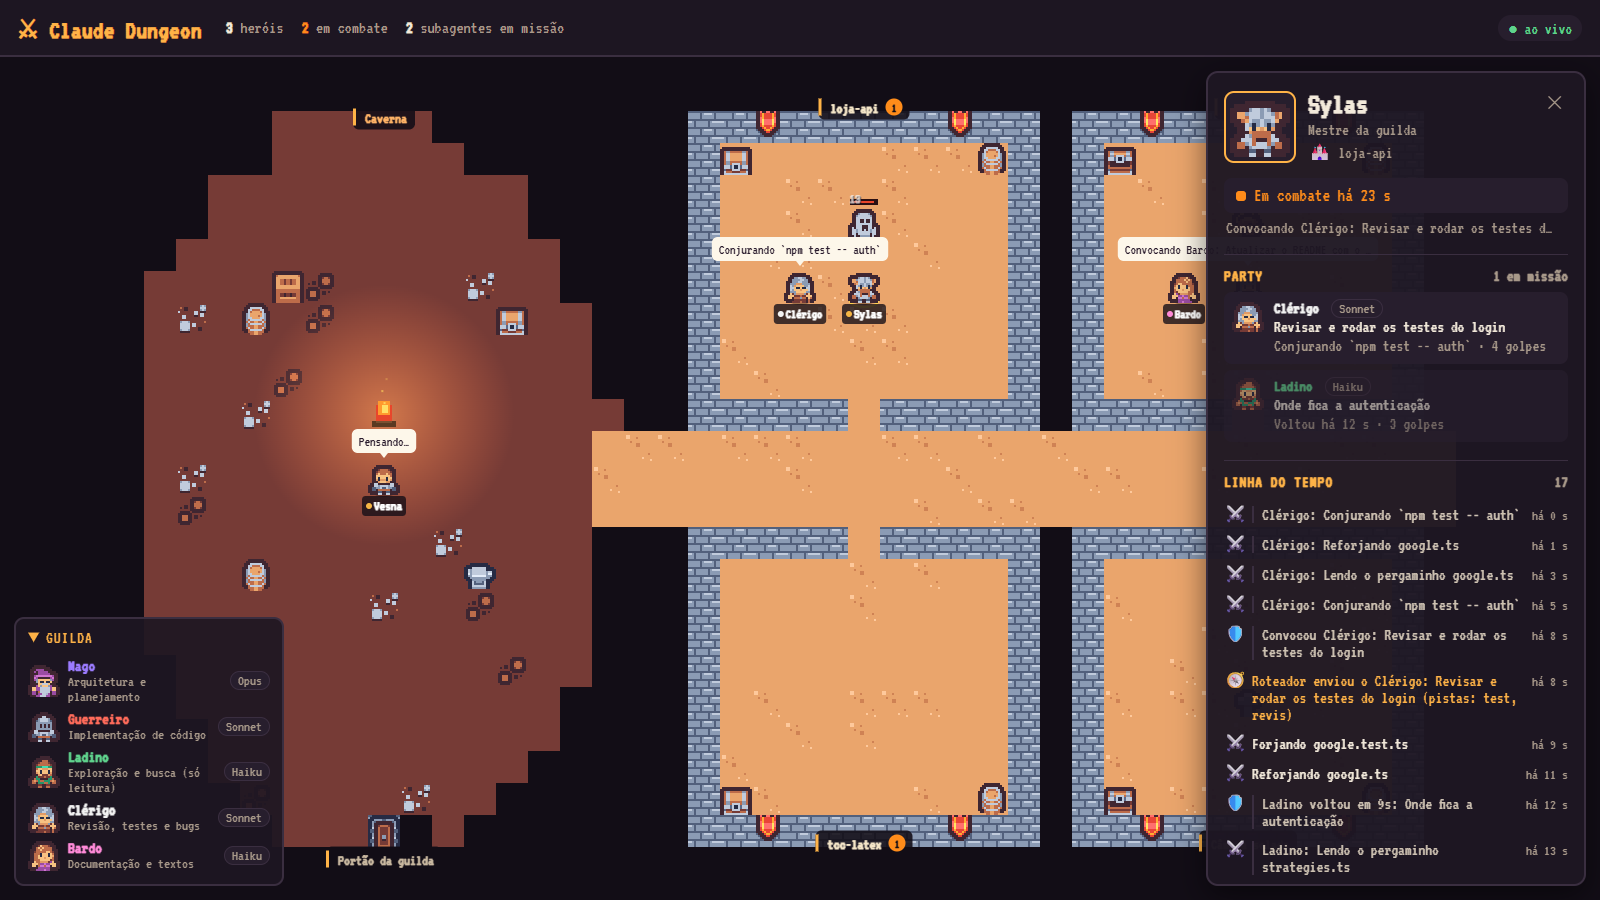
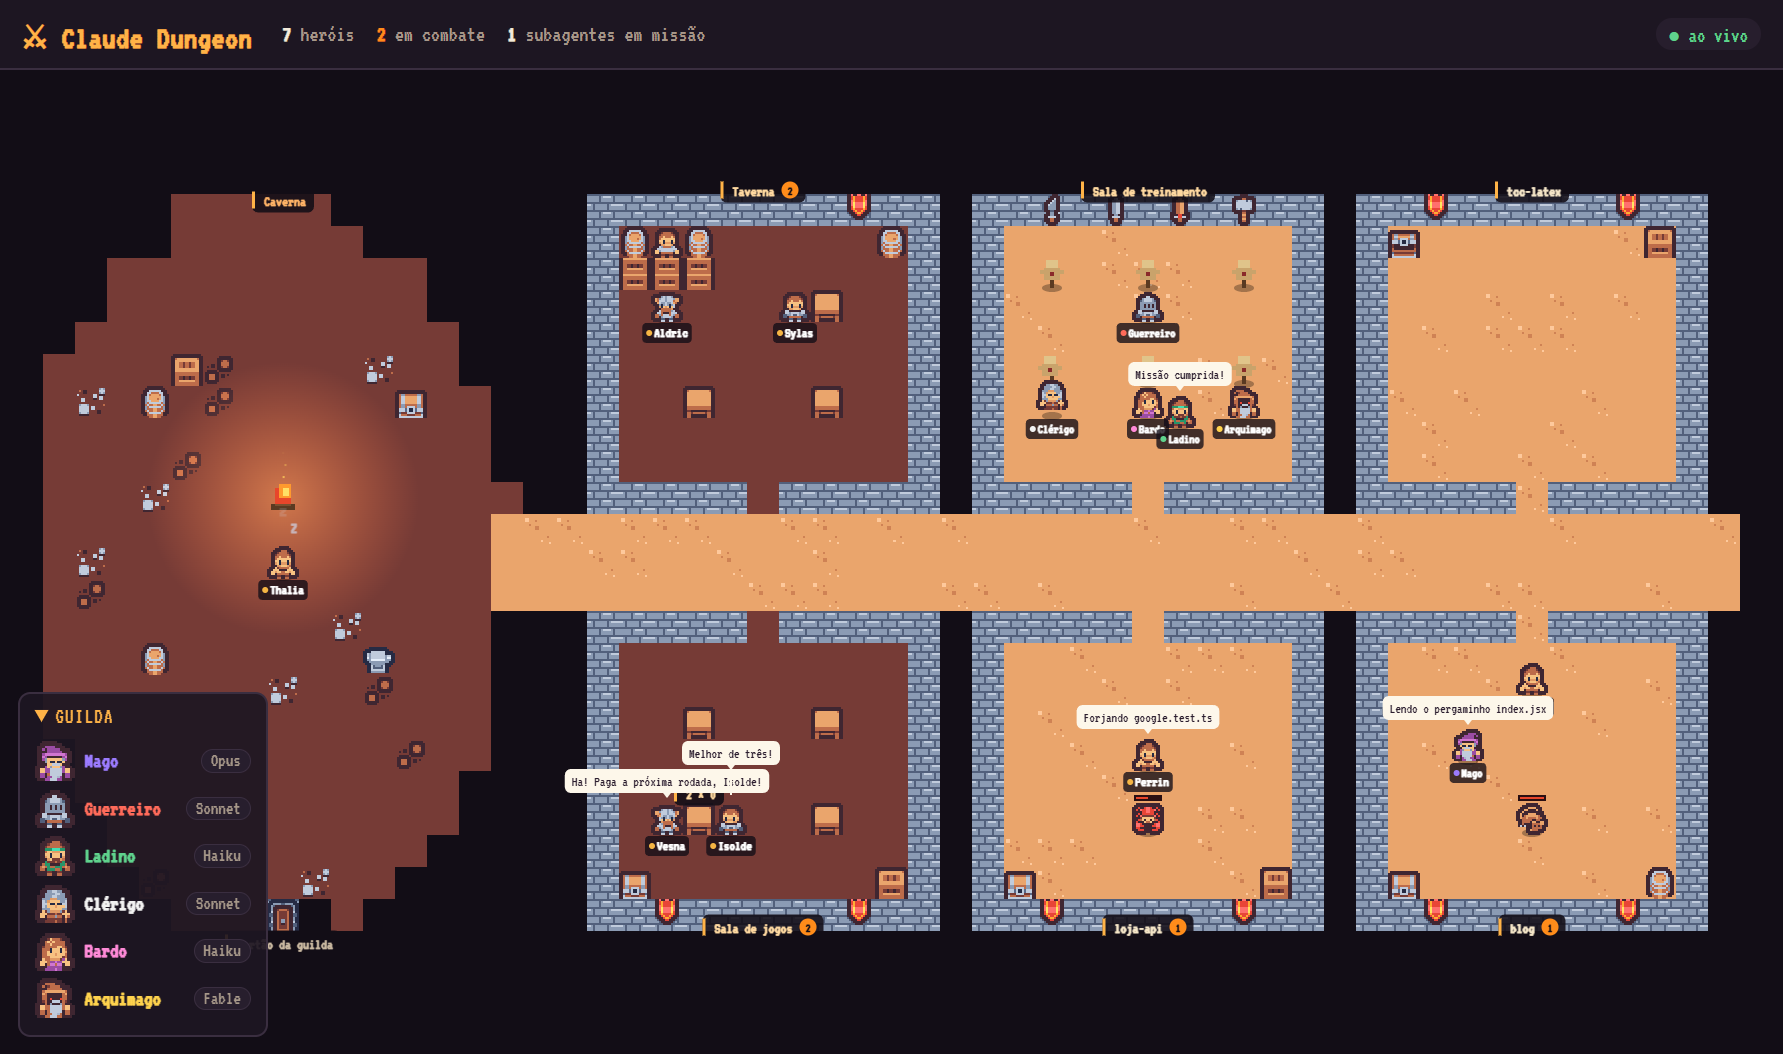
docs: document the guild rooms, the Arquimago and the desktop app

diff --git a/README.md b/README.md
@@ -2,12 +2,20 @@
 
 Veja suas sessões do [Claude Code](https://claude.com/claude-code) como uma guilda de RPG explorando uma dungeon em pixel art, ao vivo.
 
-![Mapa com heróis em combate nas salas dos projetos e o painel lateral de um herói](docs/screenshot.png)
+![Mapa com a caverna, a taverna, a sala de jogos, a sala de treinamento e heróis em combate nas salas dos projetos](docs/screenshot.png)
 
 - Cada **sessão** do Claude é um **herói** com nome e visual próprios.
 - Cada **projeto** (a pasta onde a sessão roda) é uma **sala da dungeon**, com placa e contador de heróis.
-- Quem está trabalhando entra na sala e **luta com o monstro**: cada chamada de ferramenta (ler um arquivo, rodar um comando) é um golpe.
-- Quem terminou volta para **descansar na caverna**, em volta da fogueira. Quem precisa da sua permissão fica com um balão amarelo de **"!"**.
+- Quem está trabalhando entra na sala e **luta com o monstro**: cada chamada de ferramenta (ler um arquivo, rodar um comando) é um golpe. Quem precisa da sua permissão fica com um balão amarelo de **"!"**.
+- Quem terminou segue pelas salas da guilda conforme o tempo parado:
+
+  | Sala | Quem está lá | O que acontece |
+  | --- | --- | --- |
+  | 🍺 Taverna | acabou uma missão há menos de 2 min | conta a vitória com os dados reais ("Missão cumprida em 3min: corrige o login") |
+  | 🎲 Sala de jogos | parado de 2 a 10 min, em duplas | dados, cartas ou queda de braço, com placar e provocações |
+  | 🔥 Caverna | parado há mais de 10 min | dorme perto da fogueira (zZz) |
+  | ⚔ Sala de treinamento | os subagentes da guilda | cada classe treina no seu boneco; quando é convocada, sai de lá até a sala do projeto e volta depois |
+
 - Clicar num herói abre o **painel lateral**:
   - status ("Em combate há 3 min");
   - **party** (os subagentes que ele convocou);
@@ -25,6 +33,9 @@ Além de mostrar, o projeto **decide quem faz o quê**, como no [ruflo](https://
 | 🗡 Ladino | explorar e buscar no código | Haiku | Read, Grep, Glob |
 | ✨ Clérigo | revisão, testes e bugs | Sonnet | leitura, Bash, Edit |
 | 🎻 Bardo | documentação e textos | Haiku | leitura, Write, Edit |
+| 🌟 Arquimago | os problemas mais difíceis, **só por escalação** | Fable 5.2 | todas |
+
+O **Arquimago** usa o modelo mais capaz, que também é o mais caro (o dobro do Opus por token) e o mais lento. Ele não entra no dia a dia: só é convocado quando você pede ou quando outro membro da guilda já falhou na mesma tarefa, como num bug que ninguém achou ou numa decisão de arquitetura difícil. O roteador automático nunca manda para ele (há um teste que garante isso).
 
 O roteamento tem duas camadas:
 
@@ -42,27 +53,46 @@ flowchart LR
   subgraph cc[Claude Code, várias sessões]
     H[plugin guild<br/>hooks + agentes]
   end
-  H -- "POST /events" --> S[server<br/>Node, :4747]
-  S -- "SSE /stream" --> W[web<br/>Vite + Canvas]
+  subgraph app[App Claude Dungeon]
+    S[servidor embutido<br/>Node, :4747]
+    W[janela com o mapa<br/>Canvas]
+  end
+  H -- "POST /events" --> S
+  S -- "SSE /stream" --> W
   S -. "lê tokens do transcript" .-> T[(transcript .jsonl)]
 ```
 
 - **`plugin/`**: plugin do Claude Code.
   - Hooks de comando (`SessionStart`, `UserPromptSubmit`, `PreToolUse`, `PostToolUse`, `SubagentStart/Stop`, `Notification`, `Stop`, `SessionEnd`) mandam cada evento ao servidor. Antes, cortam o conteúdo dos arquivos e prompts: só vai o que o mapa mostra.
   - Se o servidor estiver desligado, o hook desiste em 0,7 s e a sessão segue normal.
-  - Os 5 agentes ficam em `plugin/agents/`.
-- **`server/`**: `node:http` puro, com três rotas: `POST /events`, `GET /state` e `GET /stream` (Server-Sent Events).
+  - Os 6 agentes ficam em `plugin/agents/`.
+- **`server/`**: `node:http` puro, com três rotas: `POST /events`, `GET /state` e `GET /stream` (Server-Sent Events). É uma função, `startServer()`, usada tanto pelo app quanto pelo `npm run dev`.
   - O estado sai de um **reducer puro** (`reduce(state, event) → state`), testado sem rede nem disco.
   - No fim de cada resposta, ele lê o transcript da sessão para somar tokens e descobrir o modelo.
-  - O estado é salvo em `data/world.json`.
+  - O estado é salvo em disco (`%APPDATA%\Claude Dungeon\world.json` no app, `data/world.json` no modo dev).
 - **`web/`**: Canvas 2D sem engine de jogo.
-  - O mapa é gerado a partir dos projetos ativos (determinístico, com PRNG semeado).
+  - O mapa é gerado a partir dos projetos ativos (determinístico, com PRNG semeado), com as salas da guilda na frente.
+  - Para onde cada herói vai é uma função pura (`placement.ts`), separada do desenho e testada.
   - Os heróis andam com **A\*** (heap binário, heurística de Manhattan).
-  - O zoom é inteiro, para o pixel ficar nítido.
-  - Os balões se empilham quando se sobrepõem.
-- **`shared/`**: tipos e a tabela da guilda, usados pelo servidor e pelo mapa.
+  - O zoom é inteiro, para o pixel ficar nítido. Os balões se empilham quando se sobrepõem.
+- **`desktop/`**: app Electron. Roda o servidor dentro dele, mostra o mapa numa janela e fica na bandeja do sistema.
+- **`shared/`**: tipos e a tabela da guilda, usados pelo servidor, pelo mapa e pelo app.
 
-## Rodar
+## Instalar o app (Windows)
+
+```bash
+npm install
+npm run app:dist     # gera desktop/release/Claude-Dungeon-Setup-<versão>.exe
+```
+
+Instale o `.exe`. O app abre o mapa numa janela própria e fica na bandeja do sistema:
+- fechar a janela só esconde o app, porque o servidor precisa continuar recebendo os eventos;
+- **Sair**, no menu da bandeja, encerra de verdade;
+- no mesmo menu há a opção **Iniciar com o Windows**, que abre o app escondido na bandeja.
+
+Sem instalar, `npm run app` abre o app direto do repositório.
+
+## Rodar no modo desenvolvimento
 
 Pré-requisitos: Node 20+ e o Claude Code.
 
@@ -87,7 +117,7 @@ claude plugin marketplace add eduortizr/claude-dungeon   # ou o caminho de um cl
 claude plugin install guild@claude-dungeon
 ```
 
-A partir daí, toda sessão nova aparece no mapa enquanto o servidor estiver rodando.
+A partir daí, toda sessão nova aparece no mapa enquanto o app (ou o `npm run dev`) estiver aberto.
 
 | Variável | Para quê |
 | --- | --- |
@@ -100,7 +130,7 @@ A partir daí, toda sessão nova aparece no mapa enquanto o servidor estiver rod
 ## Testes
 
 ```bash
-npm test         # Vitest: roteador, reducer, transcript, A*, mapa, formatação
+npm test         # Vitest: roteador, reducer, servidor HTTP, transcript, A*, mapa, salas, jogos
 npm run typecheck
 ```
 
@@ -110,6 +140,8 @@ npm run typecheck
 - **Por que SSE e não WebSocket?** O fluxo é de mão única (servidor → mapa), e o `EventSource` reconecta sozinho, sem nenhuma dependência.
 - **Por que mandar o estado inteiro a cada mudança?** Ele é pequeno (a linha do tempo tem limite), e assim o cliente não precisa aplicar diffs nem tratar mensagens perdidas. As rajadas de eventos são agrupadas em uma mensagem a cada 100 ms.
 - **Por que reducer puro?** Toda a regra do jogo (quem está em combate, quem é da party de quem) fica num lugar só, testável com uma lista de eventos.
+- **Por que Electron e não Tauri?** O servidor já é Node. No Electron ele roda dentro do próprio app, sem reescrever nada; no Tauri ele seria um processo à parte. O preço é o tamanho (~96 MB contra ~10 MB), aceitável para uma ferramenta local.
+- **Por que as salas dependem do tempo parado?** Cada sala mostra um estado real (acabou agora, parado há pouco, parado há muito), então o mapa continua informativo mesmo quando ninguém está trabalhando.
 - **Por que o roteador é por palavras-chave e não um LLM?** Ele roda em cada chamada de subagente, dentro de um hook. Precisa ser instantâneo, grátis e previsível. O Claude principal já recebe a tabela da guilda e escolhe a classe sozinho na maioria das vezes; o roteador só cobre as chamadas genéricas.
 
 ## Créditos
@@ -122,4 +154,6 @@ npm run typecheck
 
 - Classificador opcional por embeddings no roteador, com o de palavras-chave como reserva.
 - Custo estimado por sessão e por classe.
+- Escalação automática para o Arquimago quando um subagente falha duas vezes na mesma missão.
+- Instalador para macOS e Linux, e assinatura de código no Windows.
 - Sons (golpe, vitória) e um modo "TV" que segue o herói ativo.

diff --git a/CLAUDE.md b/CLAUDE.md
@@ -8,6 +8,7 @@ Mapa pixel art (tema RPG) das sessões do Claude Code e uma guilda de subagentes
 - `server/`: `node:http` + SSE; regra do jogo no reducer puro `server/src/state.ts`.
 - `plugin/`: plugin `guild` (hooks `.mjs` + `agents/*.md`). Instalado neste PC em 2026-11-17 via `claude plugin marketplace add <esta pasta>` + `claude plugin install guild@claude-dungeon` (escopo user): toda sessão nova manda eventos para `127.0.0.1:4747`.
 - `web/`: Vite + Canvas 2D. Tiles do Kenney Tiny Dungeon (CC0); índices em `web/src/tiles.ts`.
+- `desktop/`: app Electron (esbuild empacota `src/main.ts` + o servidor em `dist/main.cjs`).
 
 ## Comandos
 
@@ -15,8 +16,14 @@ Mapa pixel art (tema RPG) das sessões do Claude Code e uma guilda de subagentes
 - `npm run demo [-- --loop]`: sessões simuladas, passando pelo roteador real.
 - `npm test`, `npm run typecheck`.
 
+## Salas, Arquimago e app (2026-11-17)
+
+- Salas da guilda (pedido do aluno): Taverna = acabou há < 2 min; Sala de jogos = parado 2–10 min, em duplas; Caverna = parado > 10 min (dorme); Sala de treinamento = quartel dos subagentes, que saem de lá quando convocados. Regras em `web/src/placement.ts` (pura, testada); jogos em `web/src/games.ts`.
+- Arquimago (`guild:arquimago`, Fable 5.2): só escalação; o roteador nunca escolhe (teste em `router.test.ts`).
+- App Electron em `desktop/`: `startServer()` (`server/src/app.ts`) roda dentro do app; janela + bandeja; "Iniciar com o Windows" abre com `--hidden`. `npm run app` (sem instalar), `npm run app:dist` (instalador NSIS em `desktop/release/`, ~96 MB, sem assinatura de código). A versão do `electron` fica fixa no `desktop/package.json` (o electron-builder recusa faixa `^`). Dados do app em `%APPDATA%\Claude Dungeon\world.json`.
+
 ## Observações
 
 - No Windows, parar o `npm run dev` pelo harness pode deixar o `tsx` e o `vite` órfãos nas portas: conferir com `Get-NetTCPConnection -LocalPort 4747` e parar só esses PIDs.
-- Prints: puppeteer-core + Edge headless (script descartável no scratchpad); `--virtual-time-budget` do Edge trava com SSE aberto.
+- Prints: puppeteer-core + Edge headless (script descartável no scratchpad); `--virtual-time-budget` do Edge trava com SSE aberto. Do app: abrir com `--remote-debugging-port=9333` e `puppeteer.connect`.
 - Mudou o plugin? Ele é lido da pasta do marketplace: rodar `/reload-plugins` ou abrir uma sessão nova.
